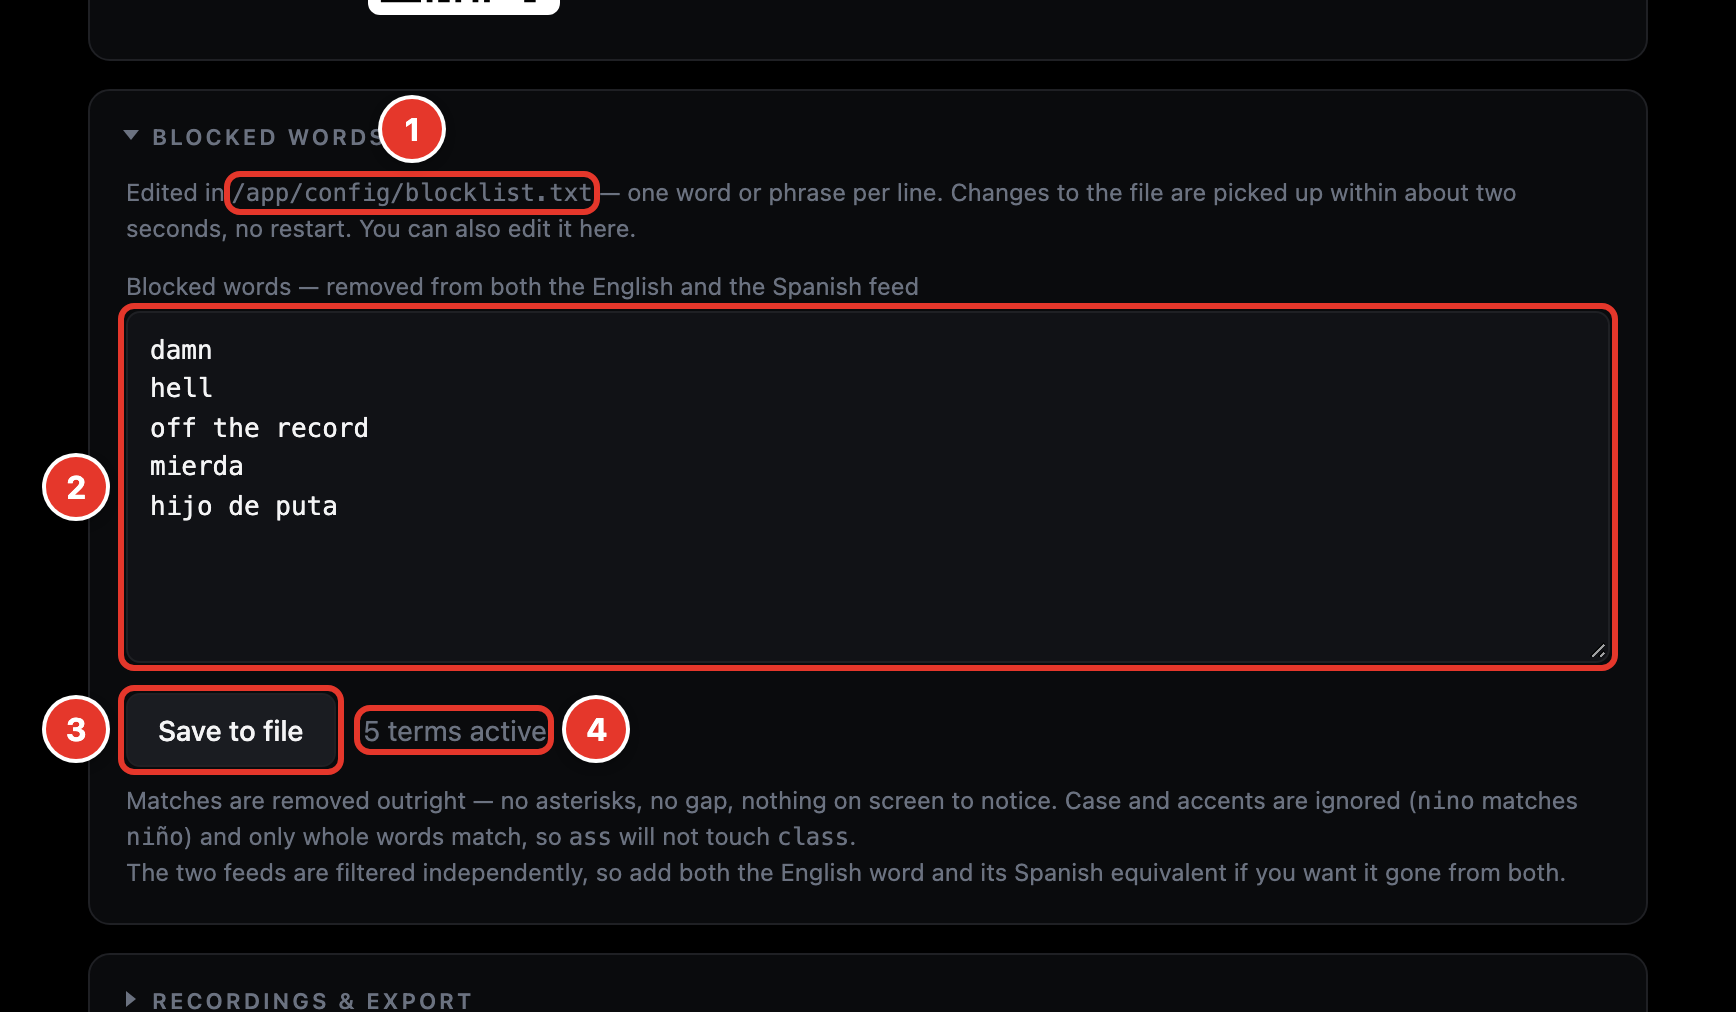
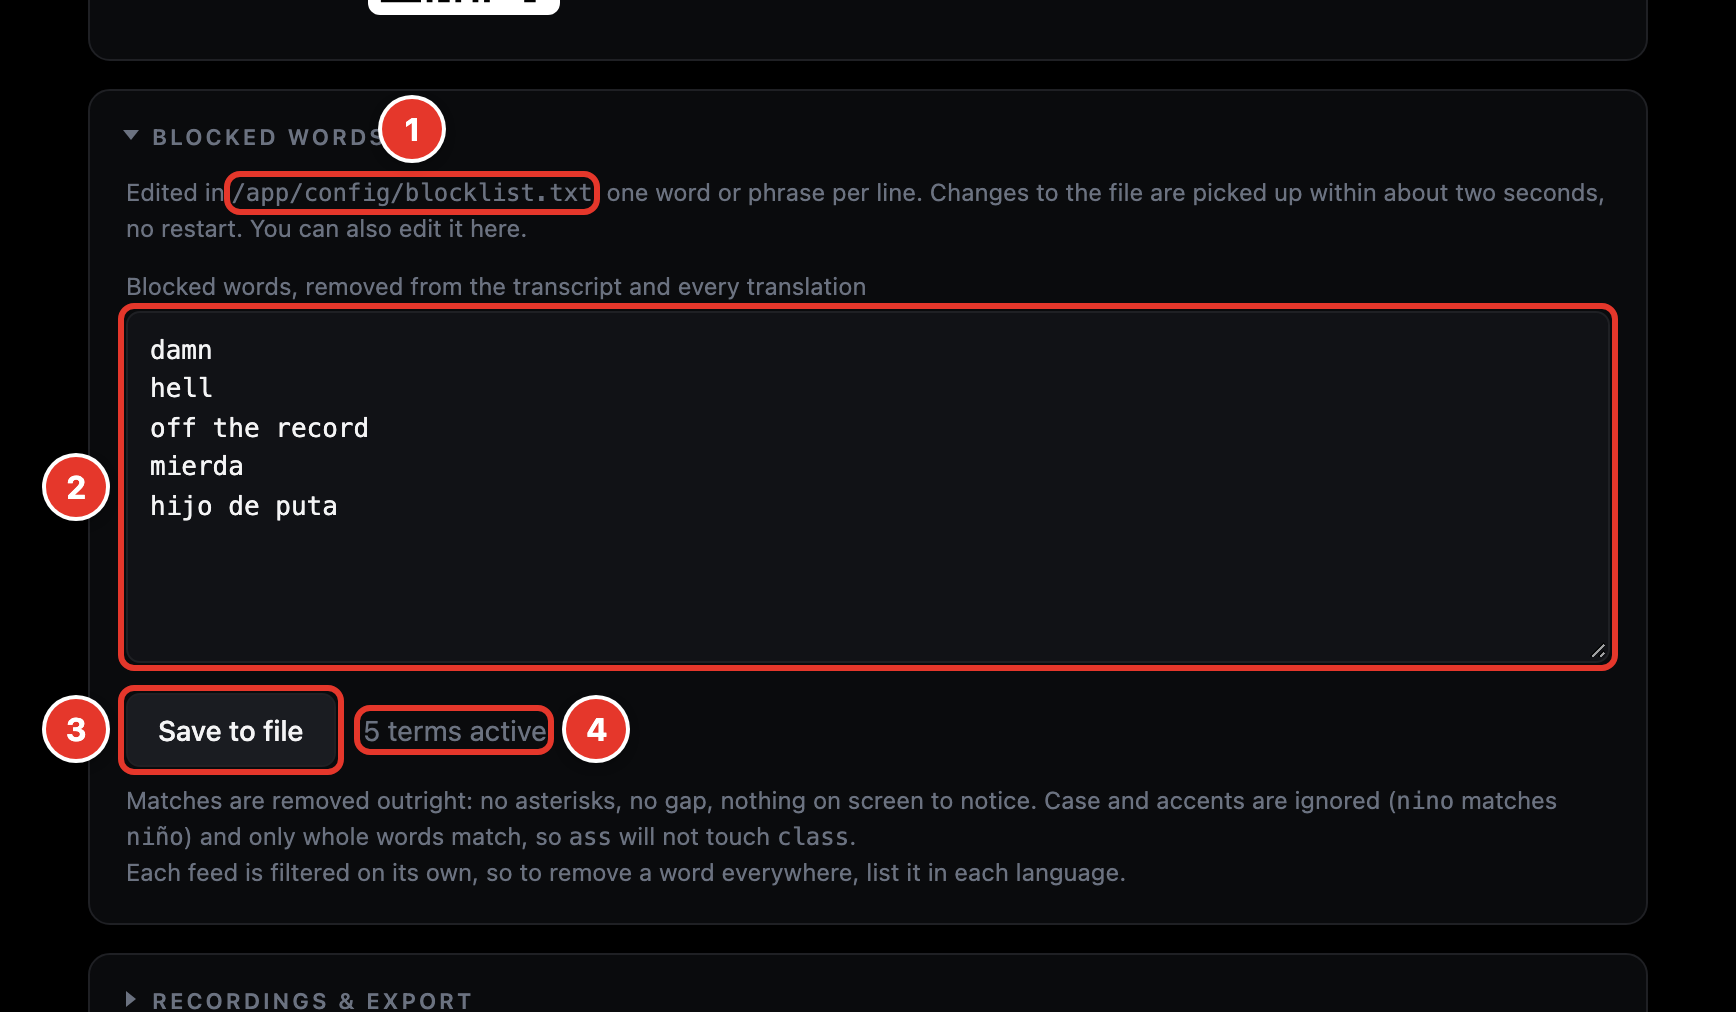
Blocked words panel: language-neutral copy, no em dashes
The label and the note still said the list applies to "the English and
the Spanish feed" and told operators to add "the Spanish equivalent",
from when Spanish was the only target. Relay has twelve targets, and the
blocklist filters the transcript and every translation on its own.

diff --git a/app/templates/admin.html b/app/templates/admin.html
@@ -299,22 +299,22 @@
   <details class="sect" id="sec-blocklist">
     <summary>Blocked words</summary>
     <div class="note" style="margin:0 0 12px">
-      Edited in <span class="mono" id="blocklistPath">blocklist.txt</span> &mdash;
+      Edited in <span class="mono" id="blocklistPath">blocklist.txt</span> with
       one word or phrase per line. Changes to the file are picked up within about
       two seconds, no restart. You can also edit it here.
     </div>
     <div class="field">
-      <label for="blocklist">Blocked words &mdash; removed from both the English and the Spanish feed</label>
+      <label for="blocklist">Blocked words, removed from the transcript and every translation</label>
       <textarea id="blocklist" rows="8" spellcheck="false" placeholder="bad word&#10;another bad word&#10;a phrase to drop"></textarea>
     </div>
     <button id="saveBlocklist">Save to file</button>
     <span id="blocklistCount" class="muted" style="margin-left:10px"></span>
     <div class="note">
-      Matches are removed outright &mdash; no asterisks, no gap, nothing on screen to notice.
+      Matches are removed outright: no asterisks, no gap, nothing on screen to notice.
       Case and accents are ignored (<span class="mono">nino</span> matches <span class="mono">ni&ntilde;o</span>) and only whole
       words match, so <span class="mono">ass</span> will not touch <span class="mono">class</span>.
-      <br>The two feeds are filtered independently, so add both the English word and its
-      Spanish equivalent if you want it gone from both.
+      <br>Each feed is filtered on its own, so to remove a word everywhere, list it
+      in each language.
     </div>
   </details>
 
